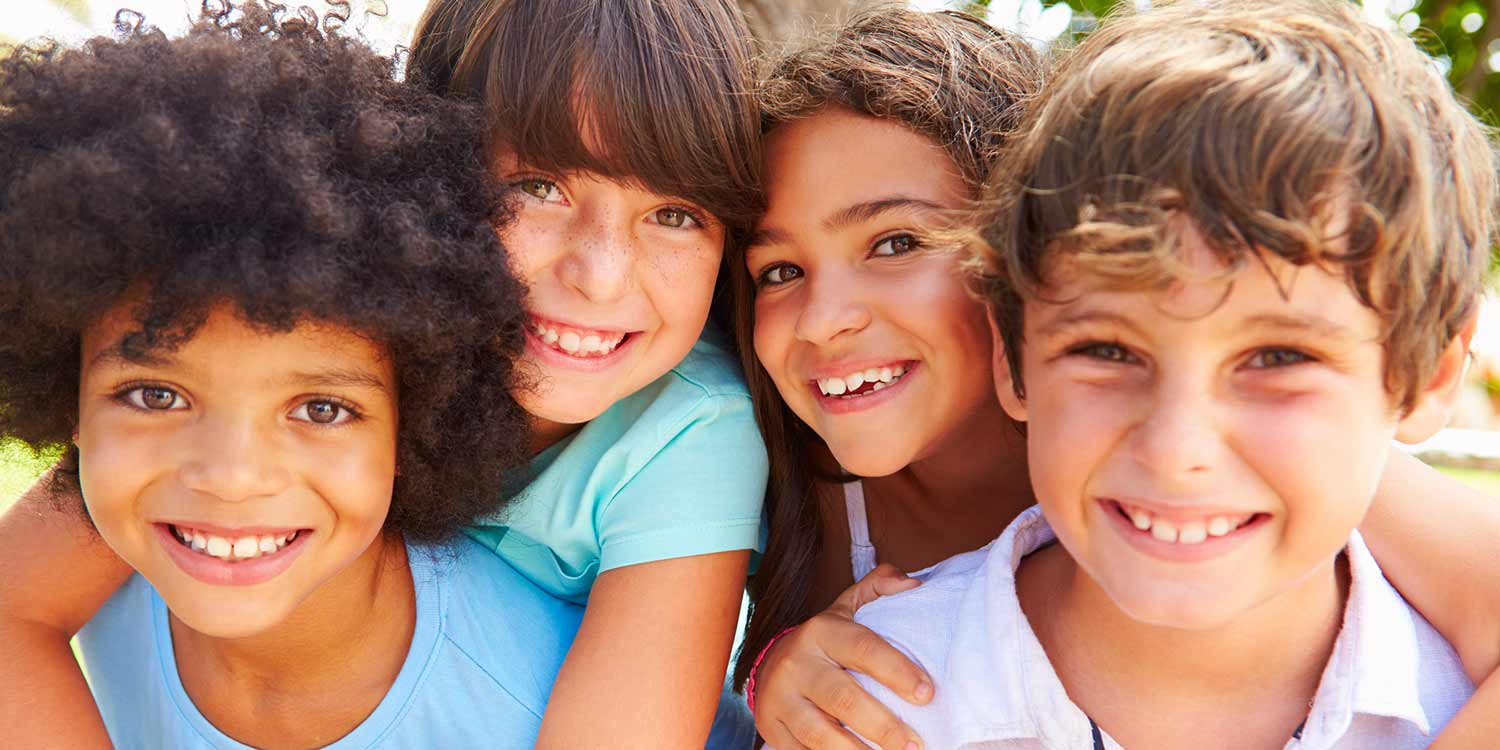
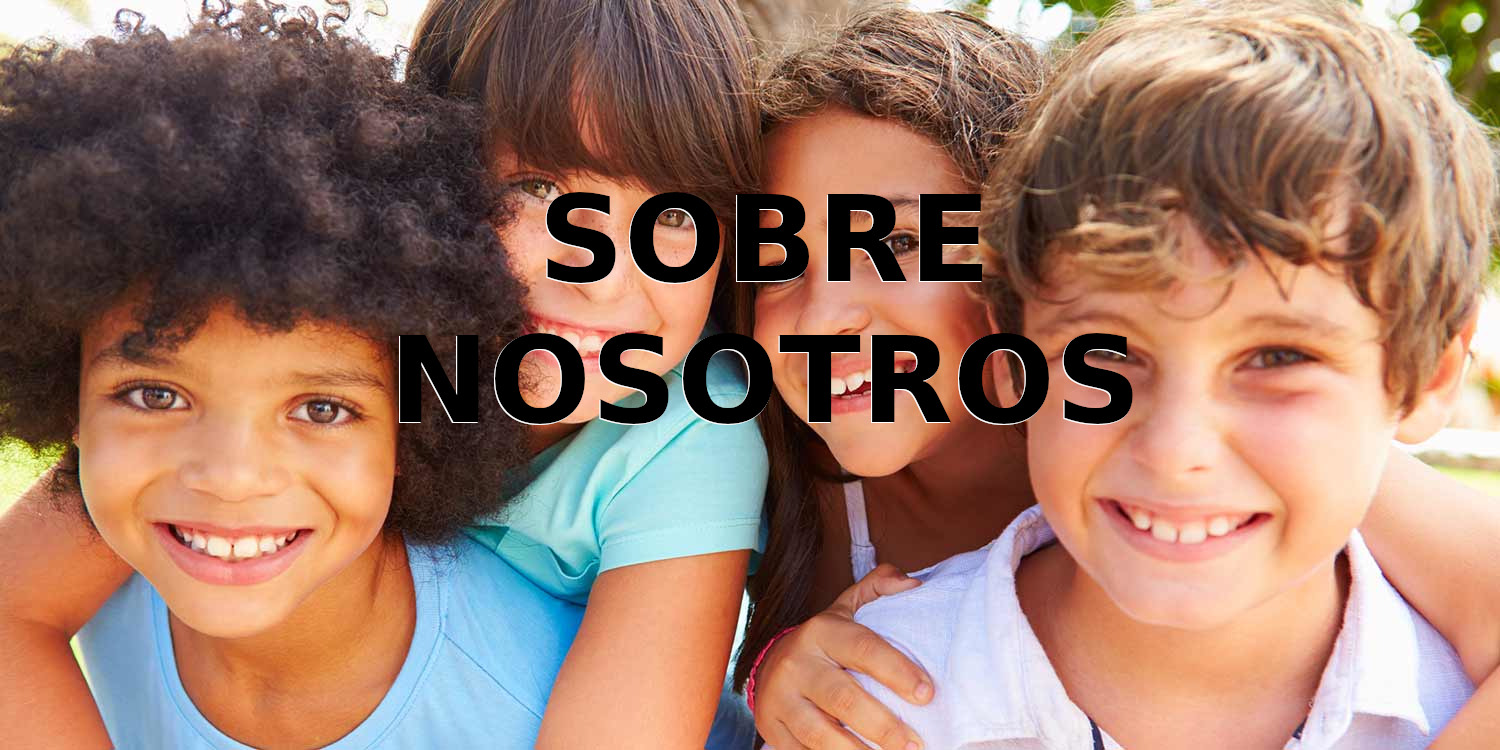
Sixth (and probably last) update, minor details fixed and some tweaking for smaler screens

Changed region(s): [[0.2453, 0.4293, 0.7667, 0.5827], [0.3373, 0.2453, 0.6747, 0.3987]]

diff --git a/about.html b/about.html
@@ -39,7 +39,6 @@
     <!-- NAVBAR FINISH -->
     <div>
       <img src="art/about/banner.jpg" alt="Oh no! Something went wrong! :(" style="width:100%;">
-      <h1 class="centered about"><b>SOBRE NOSOTROS</b></h1>
     </div>
     <h3><b> Quiénes somos</b></h3>
     <br>
@@ -225,6 +224,7 @@
     <br>
     <br>
     <footer class="border border-info">
+      <!-- La pagina original no tenia redes sociales, por lo que no pude incluirlas -->
       <div class="container">
         <div class="row align-items-center">
           <div class="col">

diff --git a/index.html b/index.html
@@ -177,6 +177,7 @@
         <br>
         <!-- FOOTER START -->
         <footer class="border border-info">
+        <!-- La pagina original no tenia redes sociales, por lo que no pude incluirlas -->
         <div class="container">
             <div class="row align-items-center">
             <div class="col">

diff --git a/news.html b/news.html
@@ -197,6 +197,7 @@
     <br>
     <!-- FOOTER START -->
     <footer class="border border-info">
+      <!-- La pagina original no tenia redes sociales, por lo que no pude incluirlas -->
       <div class="container">
         <div class="row align-items-center">
           <div class="col">

diff --git a/README.md b/README.md
@@ -1,1 +1,8 @@
+Link a la pagina subida en GitHub Pages a través de la terminal:
 https://nachorubiox.github.io/fundacion_nino_y_cancer/
+
+Como anotación aparte:
+-Las tarjetas de noticias son de pequeño tamaño debido a que es simplemente una vista previa, el usuario debería ser capaz de hacer click en el artículo/foto e ir directo a la noticia completa en otra pagina aparte
+-La pauta especificaba agregar redes sociales en el footer, y a pesar que anduve buscando igurosamente por la pagina original, no encontré nada relacionado a eso, mas que la información de contacto en el index
+
+(La musica de ascensor en news es simplemente una prueba que quería hacer de la etiqueta de audio y sus propiedades)
